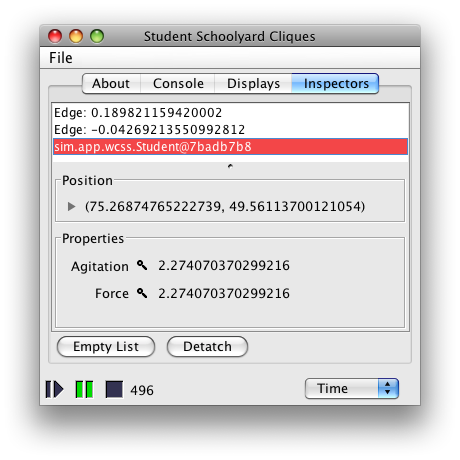
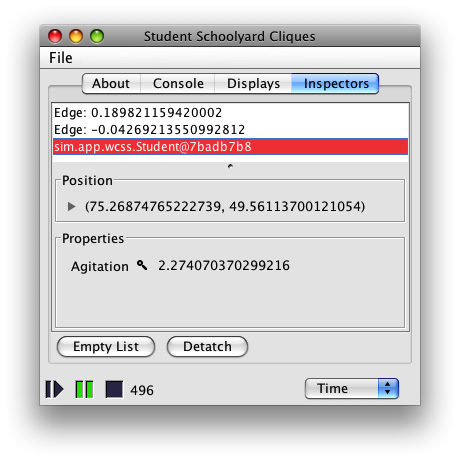
yo
git-svn-id: https://mason.googlecode.com/svn/trunk@724 e22d1478-1c87-2d72-604f-1c9cf2634165

diff --git a/mason/docs/manualsource/manual.tex b/mason/docs/manualsource/manual.tex
@@ -1462,9 +1462,9 @@ In the Console at right we see the list of Inspectors, and beneath it the \Class
 \begin{wrapfigure}{r}[0in]{3in}
 \vspace{-1em}\hfill\includegraphics[width=2.8in]{ConsoleInspectors2.png}\vspace{-2em}\end{wrapfigure}
 
-Click on the Student\footnote{Don't like that ugly name for the Student in the Inspector's list?  Just override the Student's \method{toString()} method, and it'll be used instead.} and you'll get an Inspector like the one shown at right.  The Student has two properties: \textit{Agitation} and \textit{Force}.  These correspond to the two Java Bean Property Methods we defined: \method{getAgitation()} and \method{getForce()}.  If you continue the simulation, you'll find that these properties automatically update.\footnote{Also the simulation runs more slowly because there's more stuff to draw on-screen.  Click ``Empty List'' to get rid of the Inspectors and make the simulation run faster.  You can make the simulation run even faster by getting rid of the display.  Click the display's close box (on OS X, the red button).  Last, change the Time Button \raisebox{-0.25em}{\includegraphics[scale=0.4]{TimeButton.png}} to say ``Rate'', which is updated less often.  With no displays to draw, no inspectors to update, and no steps counter to repaint, the GUI will approach\,---\,but not match\,---\,the speed you get if you just run on the command line.  Don't worry, you can get the display back -- go to the Displays tab \raisebox{-0.25em}{\includegraphics[scale=0.4]{DisplaysButton.png}} and double-click on the display.}
+Click on the Student\footnote{Don't like that ugly name for the Student in the Inspector's list?  Just override the Student's \method{toString()} method, and it'll be used instead.} and you'll get an Inspector like the one shown at right.  The Student has one property: \textit{Agitation}.  This corresponds to the Java Bean Property Method we defined: \method{getAgitation()}.  If you continue the simulation, you'll find that this property automatically updates.\footnote{Also the simulation runs more slowly because there's more stuff to draw on-screen.  Click ``Empty List'' to get rid of the Inspectors and make the simulation run faster.  You can make the simulation run even faster by getting rid of the display.  Click the display's close box (on OS X, the red button).  Last, change the Time Button \raisebox{-0.25em}{\includegraphics[scale=0.4]{TimeButton.png}} to say ``Rate'', which is updated less often.  With no displays to draw, no inspectors to update, and no steps counter to repaint, the GUI will approach\,---\,but not match\,---\,the speed you get if you just run on the command line.  Don't worry, you can get the display back -- go to the Displays tab \raisebox{-0.25em}{\includegraphics[scale=0.4]{DisplaysButton.png}} and double-click on the display.}
 
-We can go further than this.  Let's chart the degree of agitation of a given Student.  Stop the simulation and start it paused (click on the Pause button \raisebox{-0.25em}{\includegraphics[scale=0.4]{PauseButton.png}} when the console is Stopped \raisebox{-0.25em}{\includegraphics[scale=0.4]{StopButton.png}}\ ).  Then step the simulation a few times and double-click on a student and inspect it.  Next, click on the magnifying glass button \raisebox{-0.2em}{\includegraphics[scale=0.4]{MagnifyingGlassButton.png}} next to the \textit{Agitation} property.  Up will pop up a menu which lets you {\it stream} the property to a file or to a window, or {\it chart} the property\footnote{MASON uses the charting library {\it JFreeChart} (http:/\!/jfreechart.org) to do charting in its inspectors.} by calling forth further inspectors to do more interesting things.
+We can go further than this.  Let's chart the degree of agitation of a given Student.  Stop the simulation and start it paused (click on the Pause button \raisebox{-0.25em}{\includegraphics[scale=0.4]{PauseButton.png}} when the console is Stopped \raisebox{-0.25em}{\includegraphics[scale=0.4]{StopButton.png}}\ ).  Then step the simulation a few times and double-click on a student and inspect it.  Next, click on the magnifying glass button \raisebox{-0.2em}{\includegraphics[scale=0.4]{MagnifyingGlassButton.png}} next to the \textit{Agitation} property.  Up will pop up a menu which lets you {\it stream} the property to a file or to a window, or {\it chart} the property\footnote{MASON uses the charting library {\it JFreeChart} (http:/\!/jfree.org/jfreechart/) to do charting in its inspectors.} by calling forth further inspectors to do more interesting things.
 
 These inspectors are different from the SimpleInspectors you've seen so far. First off, the SimpleInspector is designed to inspect an {\it object}.  These additional inspectors, subclasses of \Class{sim.portrayal.inspector.PropertyInspector}, are designed to inspect {\it the value of a property of an object}.  Second, PropertyInspectors can be dynamically plugged-in at run-time, and appear in that pop-up menu.
 

diff --git a/mason/sim/util/media/chart/ChartGenerator.java b/mason/sim/util/media/chart/ChartGenerator.java
@@ -16,14 +16,13 @@ import java.io.*;
 
 import java.awt.image.*;
 
-// From MASON (cs.gmu.edu/~eclab/projects/mason/)
 import sim.util.gui.*;
 import sim.util.gui.Utilities;
 import sim.util.*;
 import sim.display.*;
 import sim.util.media.*;
 
-// From JFreeChart (jfreechart.org)
+// From JFreeChart
 import org.jfree.chart.*;
 import org.jfree.chart.axis.*;
 import org.jfree.chart.event.*;

diff --git a/mason/sim/util/media/chart/HistogramGenerator.java b/mason/sim/util/media/chart/HistogramGenerator.java
@@ -11,10 +11,9 @@ import java.util.*;
 import java.awt.event.*;
 import javax.swing.*;
 
-// From MASON (cs.gmu.edu/~eclab/projects/mason/)
 import sim.util.gui.*;
 
-// From JFreeChart (jfreechart.org)
+// From JFreeChart
 import org.jfree.chart.*;
 import org.jfree.chart.plot.*;
 import org.jfree.data.general.*;

diff --git a/mason/sim/util/media/chart/ScatterPlotGenerator.java b/mason/sim/util/media/chart/ScatterPlotGenerator.java
@@ -11,10 +11,9 @@ import java.util.*;
 import java.awt.event.*;
 import javax.swing.*;
 
-// From MASON (cs.gmu.edu/~eclab/projects/mason/)
 import sim.util.gui.*;
 
-// From JFreeChart (jfreechart.org)
+// From JFreeChart
 import org.jfree.chart.*;
 import org.jfree.chart.plot.*;
 import org.jfree.data.general.*;

diff --git a/mason/sim/util/media/chart/TimeSeriesChartGenerator.java b/mason/sim/util/media/chart/TimeSeriesChartGenerator.java
@@ -11,10 +11,9 @@ import java.util.*;
 import java.awt.event.*;
 import javax.swing.*;
 
-// From MASON (cs.gmu.edu/~eclab/projects/mason/)
 import sim.util.gui.*;
 
-// From JFreeChart (jfreechart.org)
+// From JFreeChart
 import org.jfree.data.xy.*;
 import org.jfree.chart.*;
 import org.jfree.chart.plot.*;

diff --git a/mason/sim/util/media/chart/SeriesAttributes.java b/mason/sim/util/media/chart/SeriesAttributes.java
@@ -12,7 +12,7 @@ import java.awt.event.*;
 import java.util.*;
 import sim.util.gui.*;
 
-// From JFreeChart (jfreechart.org)
+// From JFreeChart
 import org.jfree.data.xy.*;
 import org.jfree.chart.*;
 import org.jfree.chart.event.*;

diff --git a/mason/sim/util/media/chart/HistogramSeriesAttributes.java b/mason/sim/util/media/chart/HistogramSeriesAttributes.java
@@ -14,7 +14,7 @@ import java.awt.geom.*;
 import java.util.*;
 import sim.util.gui.*;
 
-// From JFreeChart (jfreechart.org)
+// From JFreeChart
 import org.jfree.data.xy.*;
 import org.jfree.chart.*;
 import org.jfree.chart.event.*;

diff --git a/mason/sim/util/media/chart/TimeSeriesAttributes.java b/mason/sim/util/media/chart/TimeSeriesAttributes.java
@@ -14,7 +14,7 @@ import java.util.*;
 import sim.util.gui.*;
 import sim.util.*;
 
-// From JFreeChart (jfreechart.org)
+// From JFreeChart
 import org.jfree.data.xy.*;
 import org.jfree.chart.*;
 import org.jfree.chart.event.*;

diff --git a/mason/sim/util/media/chart/ScatterPlotSeriesAttributes.java b/mason/sim/util/media/chart/ScatterPlotSeriesAttributes.java
@@ -13,7 +13,7 @@ import java.awt.event.*;
 import java.util.*;
 import sim.util.gui.*;
 
-// From JFreeChart (jfreechart.org)
+// From JFreeChart
 import org.jfree.chart.renderer.xy.*;
 import org.jfree.data.general.*;
 
